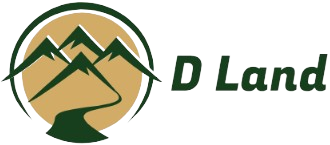
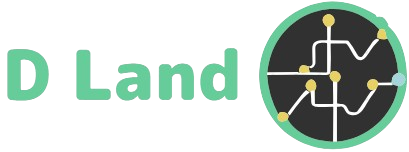
upload 25

diff --git a/src/components/layouts/FooterComponent.tsx b/src/components/layouts/FooterComponent.tsx
@@ -152,7 +152,7 @@ const FooterComponent: React.FC<IFooterComponentProps> = ({ authPage = false, re
         </Box>
         <Box sx={{ mt: { xs: "39px", lg: "0" } }}>
           <Box sx={{ textAlign: { xs: "center", lg: "right" } }}>
-            <img style={{ width: "137px" }} src="/assets/images/logo/logo.png" alt="logo" />
+            <img style={{ width: "137px" }} src="/assets/images/brand.png" alt="logo" />
           </Box>
           <Box sx={{ mt: { xs: "5px", lg: "77px" }, fontSize: "12px", textAlign: { xs: "center", lg: "right" } }}>
             Copyright © AilaB inc. All Rights Reserved.

diff --git a/src/components/authen/blocks/TopbarComponent.tsx b/src/components/authen/blocks/TopbarComponent.tsx
@@ -10,7 +10,7 @@ const TopbarComponent = () => (
         <Box className={styles.logoSection}>
           <Link href="/">
             <a>
-              <Box className={styles.logoImg} component="img" alt="avatar" src="/assets/images/logo/logo.png" />
+              <Box className={styles.logoImg} component="img" alt="avatar" src="/assets/images/brand.png" />
             </a>
           </Link>
         </Box>

diff --git a/src/components/layouts/HeaderComponent.tsx b/src/components/layouts/HeaderComponent.tsx
@@ -457,7 +457,7 @@ const HeaderComponent: React.FC<IHeaderComponentProps> = React.memo(({ authPage 
                   className={styles["header-logo--img"]}
                   component="img"
                   alt="avatar"
-                  src="/assets/images/logo/logo.png"
+                  src="/assets/images/brand.png"
                 />
               </a>
             </Link>

diff --git a/src/components/common/atom-component/SplashScreen.tsx b/src/components/common/atom-component/SplashScreen.tsx
@@ -4,7 +4,7 @@ import styles from "../common.module.scss";
 
 const SplashScreen = () => (
   <div className={styles["splash-screen"]}>
-    <img alt="splash" src="/assets/loading.gif" style={{ width: "40%" }} />
+    <img alt="splash" src="/assets/loading.gif" style={{ width: "50%" }} />
   </div>
 );
 export default SplashScreen;

diff --git a/src/components/common/common.module.scss b/src/components/common/common.module.scss
@@ -1,13 +1,15 @@
 .splash-screen {
   width: 100%;
   height: 100%;
-  position: fixed;
+  position: absolute;
   top: 0;
   left: 0;
   z-index: 999;
   background-color: white;
   justify-content: center;
   align-items: center;
+  text-align: center;
+  display: flex;
   align-content: center;
 }
 

diff --git a/src/components/layouts/layout.module.scss b/src/components/layouts/layout.module.scss
@@ -291,7 +291,7 @@
 }
 
 .footerComp {
-  background-color: #1A2944;
+  background-color: #575289;
 
   .footer-container {
     display: flex;
